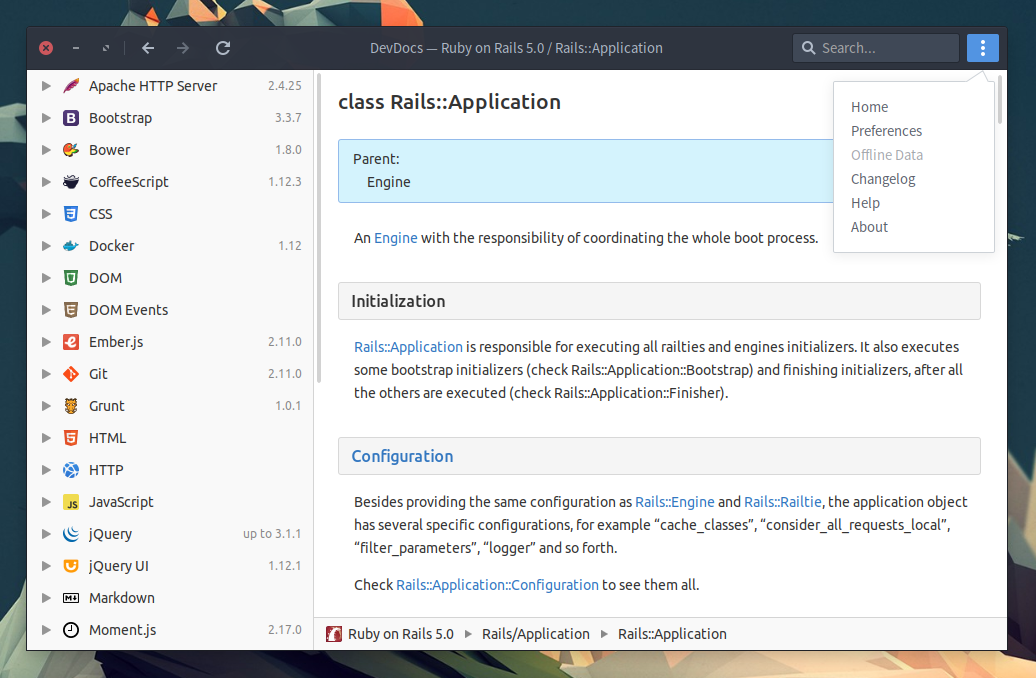
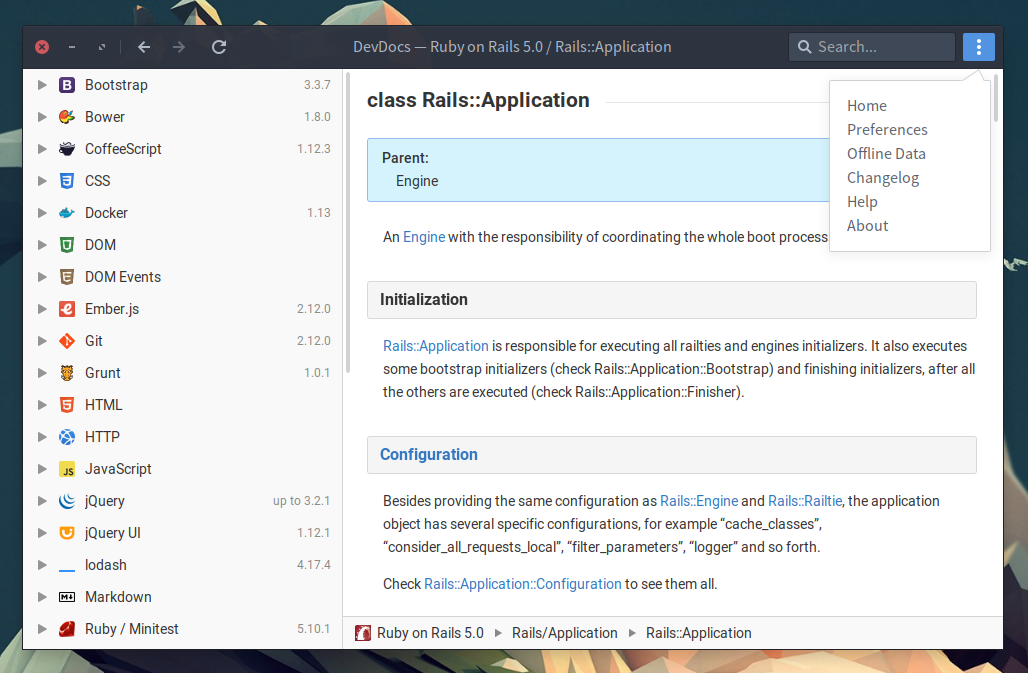
update to webkit2
support for offline docs
optimize code

diff --git a/devdocs_desktop.py b/devdocs_desktop.py
@@ -1,4 +1,4 @@
-#! /usr/bin/python3
+#! /usr/bin/python
 
 import os
 import gi
@@ -9,9 +9,9 @@ import webbrowser
 gi.require_version('Gtk', '3.0')
 gi.require_version('Gdk', '3.0')
 gi.require_version('GLib', '2.0')
-gi.require_version('WebKit', '3.0')
+gi.require_version('WebKit2', '4.0')
 
-from gi.repository import Gtk, Gdk, GLib, WebKit, Soup
+from gi.repository import Gtk, Gdk, GLib, WebKit2
 
 
 class DevdocsDesktop:
@@ -23,31 +23,34 @@ class DevdocsDesktop:
     self.args = argparse.ArgumentParser(prog='devdocs-desktop')
     self.args.add_argument('s', metavar='STR', help='the string to search', nargs='?', default='')
 
-    self.app_url = 'https://devdocs.io'
-    self.do_link = False
-    self.search  = self.args.parse_args().s
-    self.session = WebKit.get_default_session()
+    self.app_url   = 'https://devdocs.io'
+    self.search    = self.args.parse_args().s
+    self.open_link = False
 
     self.main = Gtk.Builder()
     self.main.add_from_file(self.file_path('ui/main.ui'))
     self.main.connect_signals(self)
 
-    self.webview = WebKit.WebView()
+    self.cookies = WebKit2.WebContext.get_default().get_cookie_manager()
+    self.manager = WebKit2.UserContentManager()
+    self.webview = WebKit2.WebView.new_with_user_content_manager(self.manager)
     self.webview.load_uri(self.url_with_search())
 
-    self.webview.connect('navigation-requested', self.on_webview_nav_requested)
-    self.webview.connect('load-committed', self.on_webview_load_commited)
-    self.webview.connect('load-finished', self.on_webview_load_finished)
-    self.webview.connect('title-changed', self.on_webview_title_changed)
+    self.history = self.webview.get_back_forward_list()
+    self.history.connect('changed', self.on_history_changed)
+
+    self.webview.connect('notify::uri', self.on_webview_uri_changed)
+    self.webview.connect('notify::title', self.on_webview_title_changed)
+    self.webview.connect('decide-policy', self.on_webview_decide_policy)
     self.webview.connect('context-menu', self.on_webview_context_menu)
 
     self.scrolled = self.main.get_object('scrolled_main')
     self.scrolled.add(self.webview)
 
-    self.header_back = self.main.get_object('header_button_back')
+    self.header_back    = self.main.get_object('header_button_back')
     self.header_forward = self.main.get_object('header_button_forward')
-    self.header_title = self.main.get_object('header_label_title')
-    self.header_save = self.main.get_object('header_button_save')
+    self.header_title   = self.main.get_object('header_label_title')
+    self.header_save    = self.main.get_object('header_button_save')
 
     self.header_search = self.main.get_object('header_search_entry')
     self.header_search.get_style_context().remove_class('search')
@@ -57,7 +60,7 @@ class DevdocsDesktop:
     self.window.show_all()
 
     self.create_settings_path()
-    self.set_webview_settings()
+    self.inject_custom_styles()
     self.enable_persistent_cookies()
 
   def run(self):
@@ -67,48 +70,36 @@ class DevdocsDesktop:
     Gtk.main_quit()
 
   def url_with_search(self):
-    url = self.app_url
-
-    if self.search != '':
-      url = url + '#q=' + self.search
-
+    url = "%s#q=%s" % (self.app_url, self.search)
     return url
 
   def create_settings_path(self):
-    directory = self.settings_path()
-
-    if not os.path.exists(directory):
-      os.makedirs(directory)
+    if not os.path.exists(self.settings_path()):
+      os.makedirs(self.settings_path())
 
   def settings_path(self, filepath=''):
-    root = os.path.expanduser('~') + '/.devdocs-desktop'
+    root = "%s/.devdocs-desktop" % os.path.expanduser('~')
     return os.path.join(root, filepath)
 
   def file_path(self, filepath):
     root = os.path.dirname(os.path.realpath(__file__))
     return os.path.join(root, filepath)
 
-  def set_webview_settings(self):
-    userstyle = 'file://' + self.file_path('styles/user.css')
-    settings  = self.webview.get_settings()
+  def inject_custom_styles(self):
+    style = open(self.file_path('styles/user.css'), 'r').read()
+    frame = WebKit2.UserContentInjectedFrames.ALL_FRAMES
+    level = WebKit2.UserStyleLevel.USER
+    style = WebKit2.UserStyleSheet(style, frame, level, None, None)
 
-    settings.set_property('enable-webaudio', True)
-    settings.set_property('enable-media-stream', True)
-    settings.set_property('user-stylesheet-uri', userstyle)
-    settings.set_property('javascript-can-access-clipboard', True)
+    self.manager.add_style_sheet(style)
 
   def enable_persistent_cookies(self):
-    cookiefile = self.settings_path('cookies.txt')
-    cookiejar = Soup.CookieJarText.new(cookiefile, False)
-    cookiejar.set_accept_policy(Soup.CookieJarAcceptPolicy.ALWAYS)
-    self.session.add_feature(cookiejar)
+    filepath = self.settings_path('cookies.txt')
+    storage  = WebKit2.CookiePersistentStorage.TEXT
+    policy   = WebKit2.CookieAcceptPolicy.ALWAYS
 
-  def update_history_buttons(self):
-    back = self.webview.can_go_back()
-    self.header_back.set_sensitive(back)
-
-    forward = self.webview.can_go_forward()
-    self.header_forward.set_sensitive(forward)
+    self.cookies.set_accept_policy(policy)
+    self.cookies.set_persistent_storage(filepath, storage)
 
   def toggle_save_button(self, visible):
     self.header_save.set_visible(visible)
@@ -118,8 +109,8 @@ class DevdocsDesktop:
     self.quit()
 
   def on_window_main_key_release_event(self, _widget, event):
-    kname = Gdk.keyval_name(event.keyval)
-    text = self.header_search.get_text()
+    kname   = Gdk.keyval_name(event.keyval)
+    text    = self.header_search.get_text()
     visible = self.header_search.get_visible()
 
     if kname == 'Escape' and visible:
@@ -160,55 +151,60 @@ class DevdocsDesktop:
     link = '' if link == 'home' else link
 
     self.header_search.set_text('')
-    self.js_click_element('a[href="/' + link + '"]')
+    self.js_open_link(link)
 
   def on_header_button_save_clicked(self, _widget):
     self.toggle_save_button(False)
     self.js_click_element('._sidebar-footer ._settings-btn')
     self.header_title.set_label('Downloading...')
 
-  def on_webview_nav_requested(self, _widget, _frame, request):
-    uri = request.get_uri()
+  def on_webview_decide_policy(self, _widget, decision, dtype):
+    types = WebKit2.PolicyDecisionType
 
-    if self.do_link:
-      if self.app_url in uri:
-        link = uri.split(self.app_url)[-1]
-        self.js_click_element('a[href="' + link + '"]')
-      else:
+    if self.open_link and dtype == types.NAVIGATION_ACTION:
+      self.open_link = False
+      uri = decision.get_request().get_uri()
+
+      if not self.app_url in uri:
+        decision.ignore()
         webbrowser.open(uri)
 
-      return True
-
-    self.do_link = False
-    return False
-
-  def on_webview_load_commited(self, _widget, frame):
-    self.do_link = False
-    self.update_history_buttons()
-    self.toggle_save_button(frame.get_uri().endswith('settings'))
-
-  def on_webview_load_finished(self, _widget, frame):
-    self.update_history_buttons()
-    self.toggle_save_button(frame.get_uri().endswith('settings'))
-
-  def on_webview_title_changed(self, _widget, _frame, title):
+  def on_webview_title_changed(self, _widget, _title):
+    title = self.webview.get_title()
     self.header_title.set_label(title)
 
-  def on_webview_open_link(self, _widget):
-    self.do_link = True
+  def on_webview_uri_changed(self, _widget, _uri):
+    save = self.webview.get_uri().endswith('settings')
+    self.toggle_save_button(save)
+
+  def on_history_changed(self, _list, _added, _removed):
+    back = self.webview.can_go_back()
+    self.header_back.set_sensitive(back)
+
+    forward = self.webview.can_go_forward()
+    self.header_forward.set_sensitive(forward)
+
+  def on_webview_open_link(self, action):
+    self.open_link = True
 
   def on_webview_context_menu(self, _widget, menu, _coords, _keyboard):
-    for item in menu.get_children():
-      label = item.get_label()
-      lnk_open = '_Open' in label
-      new_open = '_Window' in label
-      download = '_Download' in label
+    actions = WebKit2.ContextMenuAction
+    include = [
+      actions.GO_BACK, actions.GO_FORWARD, actions.STOP, actions.RELOAD,
+      actions.COPY, actions.CUT, actions.PASTE, actions.DELETE, actions.SELECT_ALL,
+      actions.OPEN_LINK, actions.COPY_LINK_TO_CLIPBOARD,
+      actions.COPY_IMAGE_TO_CLIPBOARD, actions.COPY_IMAGE_URL_TO_CLIPBOARD,
+      actions.COPY_VIDEO_LINK_TO_CLIPBOARD, actions.COPY_AUDIO_LINK_TO_CLIPBOARD
+    ]
 
-      if new_open or download:
-        item.destroy()
+    for item in menu.get_items():
+      action = item.get_stock_action()
 
-      if lnk_open:
-        item.connect('select', self.on_webview_open_link)
+      if not action in include:
+        menu.remove(item)
+
+      if action == actions.OPEN_LINK:
+        item.get_action().connect('activate', self.on_webview_open_link)
 
   def js_form_input(self, text):
     script = """
@@ -218,15 +214,17 @@ class DevdocsDesktop:
     if (fi) { fi.value = '%s' };
     if (fe) { fe.dispatchEvent(ev); }
     """
-    script = script % (text)
 
-    self.webview.execute_script(script)
+    script = script % text
+    self.webview.run_javascript(script)
 
   def js_click_element(self, selector):
-    script = "var sl = $('%s'); if (sl) { sl.click(); }"
-    script = script % (selector)
+    script = "var sl = $('%s'); if (sl) { sl.click(); }" % selector
+    self.webview.run_javascript(script)
 
-    self.webview.execute_script(script)
+  def js_open_link(self, link):
+    link = """a[href="/%s"]""" % link.split(self.app_url)[-1]
+    self.js_click_element(link)
 
 
 if __name__ == '__main__':

diff --git a/README.md b/README.md
@@ -9,15 +9,9 @@ DevDocs desktop application created with GTK3 and Python.
 To launch the application from the terminal use `devdocs-desktop [STRING]`.
 If a string is provided, the application will open the first available result page.
 
-## Requirements (for development)
+## Requirements
 
-* python (>= 3)
-* python-gobject
-* webkitgtk (engine for GTK+ 3)
-
-## To Do
-
-Add support for offline documentation.
+    python, python-gobject, webkitgtk
 
 ## Installation
 
